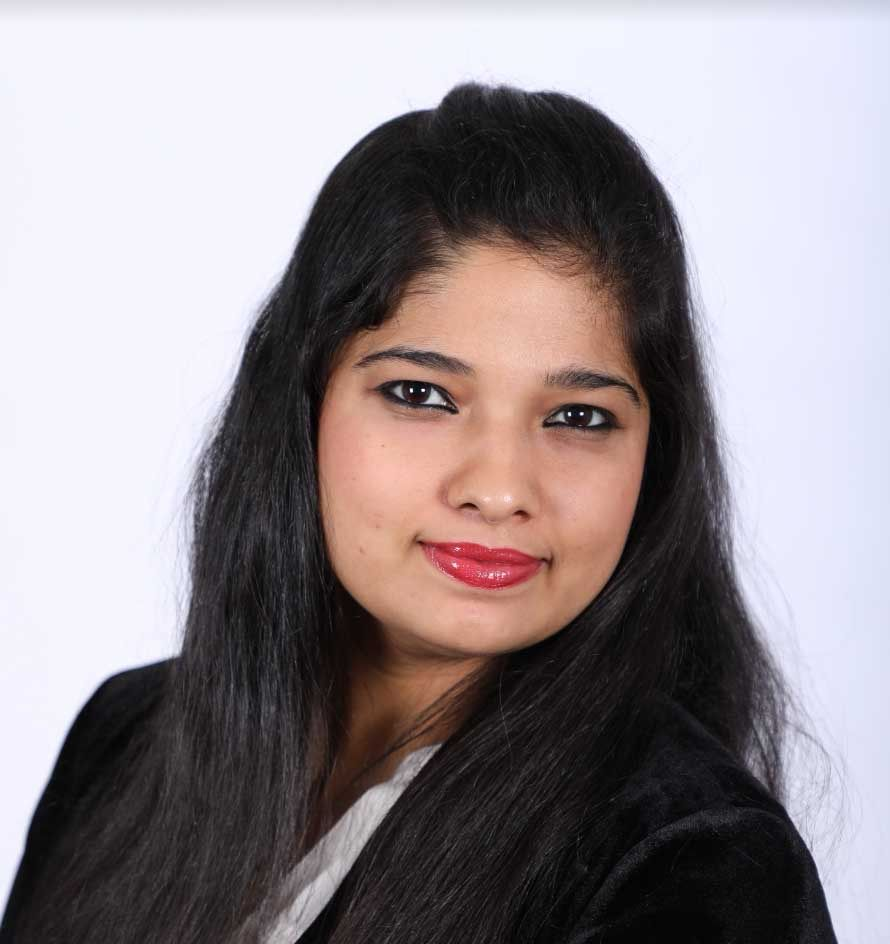
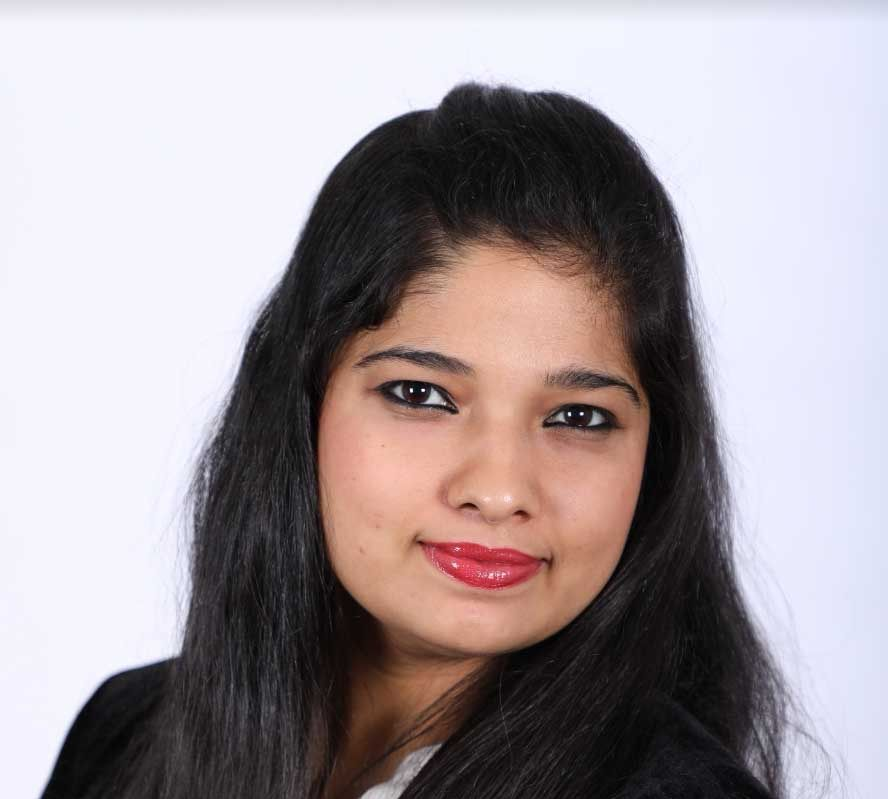
nji

diff --git a/components/about/TeamSection.tsx b/components/about/TeamSection.tsx
@@ -1,4 +1,5 @@
 "use client";
+
 import { motion } from "framer-motion";
 import { teamMembers } from "@/data/aboutData";
 import { cn } from "@/lib/utils";
@@ -11,8 +12,54 @@ const TeamSection = () => {
   };
 
   return (
-    <section className="py-16 md:py-24 bg-gradient-to-r from-[#AFC1DB]/30 to-white dark:from-[#13294e]/90 dark:to-[#13294e] relative">
+    <section className="py-16 md:py-24 bg-gradient-to-r from-[#AFC1DB]/30 to-white dark:from-[#13294e]/90 dark:to-[#13294e] relative overflow-hidden">
+      {/* Background pattern */}
       <div className="absolute inset-0 bg-grid-pattern opacity-5" />
+      
+      {/* Animated background shapes */}
+      <div className="absolute inset-0 -z-10 overflow-hidden">
+        <motion.div 
+          className="absolute -top-20 -left-20 w-96 h-96 bg-[#faa71a]/10 rounded-full mix-blend-multiply filter blur-xl"
+          animate={{
+            scale: [1, 1.2, 1],
+            x: [0, 50, 0],
+            y: [0, 30, 0],
+            opacity: [0.3, 0.2, 0.3],
+          }}
+          transition={{
+            duration: 8,
+            repeat: Infinity,
+            repeatType: "reverse",
+          }}
+        />
+        <motion.div 
+          className="absolute top-1/2 -right-32 w-[500px] h-[500px] bg-[#13294e]/10 rounded-full mix-blend-multiply filter blur-xl"
+          animate={{
+            scale: [1, 1.3, 1],
+            x: [-50, 0, -50],
+            opacity: [0.2, 0.3, 0.2],
+          }}
+          transition={{
+            duration: 10,
+            repeat: Infinity,
+            repeatType: "reverse",
+          }}
+        />
+        <motion.div 
+          className="absolute -bottom-40 left-1/3 w-[600px] h-[600px] bg-[#faa71a]/5 rounded-full mix-blend-multiply filter blur-xl"
+          animate={{
+            scale: [1, 1.4, 1],
+            y: [-20, 20, -20],
+            opacity: [0.15, 0.25, 0.15],
+          }}
+          transition={{
+            duration: 12,
+            repeat: Infinity,
+            repeatType: "reverse",
+          }}
+        />
+      </div>
+
       <div className="max-w-7xl mx-auto px-4 sm:px-6 lg:px-8 relative">
         <motion.div
           initial="hidden"
@@ -29,7 +76,7 @@ const TeamSection = () => {
           </p>
         </motion.div>
 
-        <div className="grid grid-cols-1 md:grid-cols-2 lg:grid-cols-3 gap-8">
+        <div className="grid grid-cols-1 md:grid-cols-2 lg:grid-cols-3 gap-8 lg:gap-12">
           {teamMembers.map((member, index) => (
             <motion.div
               key={member.name}
@@ -38,31 +85,42 @@ const TeamSection = () => {
               variants={fadeInUp}
               viewport={{ once: true }}
               transition={{ delay: index * 0.2 }}
-              className="group"
+              className="group relative"
             >
-              <div className="w-full max-w-sm flex flex-col bg-white dark:bg-[#13294e] rounded-2xl overflow-hidden shadow-xl hover:shadow-2xl transition-all duration-300 transform group-hover:scale-[1.02]">
-                {/* Slightly taller image container */}
-                <div className="relative w-full h-72">
-                  <Image
-                    fill
-                    sizes="(max-width: 768px) 100vw, (max-width: 1200px) 50vw, 33vw"
-                    priority
-                    src={member.image}
-                    alt={member.name}
-                    className="object-cover"
-                  />
-                  <div className="absolute inset-0 bg-gradient-to-t from-[#13294e]/60 via-transparent to-transparent group-hover:opacity-80 transition-opacity duration-300" />
-                </div>
+              <div className="relative w-full aspect-[4/5] rounded-2xl overflow-hidden shadow-xl transition-all duration-500 group-hover:scale-[1.02] group-hover:shadow-2xl bg-[#13294e]/5 dark:bg-white/5">
+                {/* Decorative corner shapes */}
+                <div className="absolute top-0 right-0 w-20 h-20 bg-[#faa71a]/10 rounded-bl-full transform translate-x-10 -translate-y-10 group-hover:translate-x-8 group-hover:-translate-y-8 transition-transform duration-700" />
+                <div className="absolute bottom-0 left-0 w-32 h-32 bg-[#13294e]/10 dark:bg-white/10 rounded-tr-full transform -translate-x-16 translate-y-16 group-hover:-translate-x-14 group-hover:translate-y-14 transition-transform duration-700" />
+                
+                {/* Background gradient animation */}
+                <div className="absolute inset-0 bg-gradient-to-br from-[#13294e]/80 via-transparent to-[#faa71a]/50 opacity-0 group-hover:opacity-100 transition-opacity duration-500" />
+                
+                {/* Image */}
+                <Image
+                  fill
+                  sizes="(max-width: 768px) 100vw, (max-width: 1200px) 50vw, 33vw"
+                  priority
+                  src={member.image}
+                  alt={member.name}
+                  className="object-cover transition-transform duration-700 group-hover:scale-110"
+                />
 
-                {/* Slightly taller content box */}
-                <div className="flex-1 p-6 flex flex-col justify-between min-h-[160px]">
-                  <div>
-                    <h3 className="text-2xl font-bold text-[#13294e] dark:text-white mb-1">
+                {/* Content overlay */}
+                <div className="absolute inset-0 flex flex-col justify-end p-6 translate-y-4 group-hover:translate-y-0 transition-transform duration-500">
+                  {/* Text background gradient */}
+                  <div className="absolute inset-0 bg-gradient-to-t from-[#13294e]/95 via-[#13294e]/50 to-transparent opacity-0 group-hover:opacity-100 transition-opacity duration-500" />
+                  
+                  {/* Content */}
+                  <div className="relative z-10">
+                    <h3 className="text-2xl font-bold text-white transform group-hover:scale-105 transition-transform duration-500">
                       {member.name}
                     </h3>
-                    <p className="text-[#faa71a] font-semibold text-lg">
+                    <p className="text-[#faa71a] font-semibold text-lg opacity-0 group-hover:opacity-100 transition-opacity duration-500 delay-100">
                       {member.role}
                     </p>
+                    {/* <p className="text-white/90 mt-3 text-sm opacity-0 group-hover:opacity-100 transform translate-y-4 group-hover:translate-y-0 transition-all duration-500 delay-200 line-clamp-3">
+                      {member.bio}
+                    </p> */}
                   </div>
                 </div>
               </div>

diff --git a/components/ui/ShapeBackground.tsx b/components/ui/ShapeBackground.tsx
@@ -1,0 +1,73 @@
+'use client';
+
+import { motion } from 'framer-motion';
+
+export const ShapeBackground = () => {
+  const shapeVariants = {
+    hidden: {
+      opacity: 0,
+      scale: 0.6,
+    },
+    visible: {
+      opacity: 0.15,
+      scale: 1,
+      transition: {
+        duration: 0.7,
+        ease: "easeOut"
+      }
+    }
+  };
+
+  const rotateVariants = {
+    hidden: { rotate: -10 },
+    visible: { 
+      rotate: 15,
+      transition: { 
+        duration: 1.2,
+        ease: "easeInOut"
+      }
+    }
+  };
+
+  return (
+    <div className="absolute inset-0 overflow-hidden">
+      <div className="absolute inset-0 opacity-0 group-hover:opacity-100 transition-opacity duration-500 ease-out">
+        <motion.div
+          className="absolute -bottom-20 -right-20 w-64 h-64 rounded-full bg-[#faa71a]/10"
+          initial="hidden"
+          variants={shapeVariants}
+          animate="visible"
+          whileHover="visible"
+        />
+        
+        <motion.div
+          className="absolute -top-16 -left-16 w-40 h-40 bg-[#13294e]/10 rotate-45"
+          initial="hidden"
+          variants={rotateVariants}
+          animate="visible"
+          whileHover="visible"
+        />
+        
+        <motion.div
+          className="absolute top-1/4 right-8 w-12 h-12 bg-[#faa71a]/5 rounded-lg"
+          initial={{ opacity: 0, y: -15 }}
+          animate={{ 
+            opacity: 0.6, 
+            y: 0,
+            transition: { duration: 0.5, delay: 0.2 }
+          }}
+        />
+        
+        <motion.div
+          className="absolute bottom-1/3 left-10 w-8 h-8 bg-[#13294e]/5 rounded-md"
+          initial={{ opacity: 0, x: 10 }}
+          animate={{ 
+            opacity: 0.5, 
+            x: 0,
+            transition: { duration: 0.5, delay: 0.3 }
+          }}
+        />
+      </div>
+    </div>
+  );
+};

diff --git a/components/Footer.tsx b/components/Footer.tsx
@@ -48,7 +48,7 @@ const Footer = () => {
       <div className="relative w-52 h-20 sm:w-36 sm:h-12 md:w-60 md:h-20">
         <div className="absolute inset-0 flex items-center justify-center z-20 overflow-hidden">
           <Image
-            src={isDark ? DarkLogo : LightLogo}
+            src={LightLogo }
             alt="logo"
             fill
             className="object-contain z-20"
@@ -88,13 +88,13 @@ const Footer = () => {
             </p>
             <div className="flex space-x-4">
               <Link
-                href="https://facebook.com/newjourneyimmigration"
+                href="https://www.facebook.com/share/1BTpFournw/?mibextid=wwXIfr"
                 className="text-gray-400 hover:text-orange-500 transition-colors"
               >
                 <Facebook className="h-5 w-5" />
               </Link>
               <Link
-                href="https://instagram.com/newjourneyimmigration"
+                href="https://www.instagram.com/new.journey.holiday?igsh=MXNlZ216bTdmOHJjZw=="
                 className="text-gray-400 hover:text-orange-500 transition-colors"
               >
                 <Instagram className="h-5 w-5" />
@@ -106,7 +106,7 @@ const Footer = () => {
                 <Twitter className="h-5 w-5" />
               </Link>
               <Link
-                href="https://linkedin.com/company/newjourneyimmigration"
+                href="https://www.linkedin.com/company/newjourney-i/about/"
                 className="text-gray-400 hover:text-orange-500 transition-colors"
               >
                 <Linkedin className="h-5 w-5" />

diff --git a/components/about/StatsSection.tsx b/components/about/StatsSection.tsx
@@ -23,7 +23,7 @@ const StatsSection = () => {
               transition={{ delay: index * 0.1, duration: 0.5 }}
               className="relative group"
             >
-              <div className="absolute inset-0 bg-[#faa71a]/10 dark:bg-[#faa71a]/20 rounded-2xl transform -rotate-3 group-hover:rotate-0 transition-transform duration-300" />
+              <div className="absolute inset-0 bg-[#faa71a] dark:bg-[#faa71a]/50 rounded-2xl transform -rotate-3 group-hover:rotate-0 transition-transform duration-300" />
               <div className="relative bg-white dark:bg-[#13294e] p-6 sm:p-8 rounded-2xl shadow-xl hover:shadow-2xl transition-all duration-300">
                 <div className="inline-flex items-center justify-center w-12 h-12 sm:w-16 sm:h-16 bg-gradient-to-br from-[#faa71a] to-amber-600 rounded-xl mb-4 sm:mb-6 transform group-hover:scale-110 transition-transform duration-300">
                   <stat.icon className="h-6 w-6 sm:h-8 sm:w-8 text-white" />

diff --git a/data/social-links-data.ts b/data/social-links-data.ts
@@ -1,12 +1,12 @@
 export const socialLinks = [
   {
     title: "Facebook",
-    url: "https://facebook.com/newjourneyimmigration",
+    url: "https://www.facebook.com/share/1BTpFournw/?mibextid=wwXIfr",
     icon: "facebook"
   },
   {
     title: "Instagram",
-    url: "https://instagram.com/newjourneyimmigration",
+    url: "https://www.instagram.com/new.journey.holiday?igsh=MXNlZ216bTdmOHJjZw==",
     icon: "instagram"
   },
   {
@@ -16,7 +16,7 @@ export const socialLinks = [
   },
   {
     title: "LinkedIn",
-    url: "https://linkedin.com/company/newjourneyimmigration",
+    url: "https://www.linkedin.com/company/newjourney-i/about/",
     icon: "linkedin"
   }
 ];

diff --git a/components/Navbar.tsx b/components/Navbar.tsx
@@ -215,7 +215,7 @@ const Navbar = () => {
       <div className="relative w-48 h-16 sm:w-36 sm:h-12 md:w-60 md:h-20">
         <div className="absolute inset-0 flex items-center justify-center z-20 overflow-hidden">
           <Image
-            src={isDark ? DarkLogo : LightLogo}
+            src={isDark ? LightLogo : DarkLogo}
             alt="logo"
             fill
             className="object-contain z-20"

diff --git a/components/Hero.tsx b/components/Hero.tsx
@@ -200,7 +200,7 @@ const Hero = () => {
           >
             <defs>
               <linearGradient id="waveGradient" x1="0" y1="0" x2="0" y2="1">
-                <stop offset="0%" stopColor="#FAA71A" stopOpacity="0.6" />
+                <stop offset="0%"  stopOpacity="0.8" />
                 <stop offset="100%" stopColor="#13294E" stopOpacity="1" />
               </linearGradient>
             </defs>
